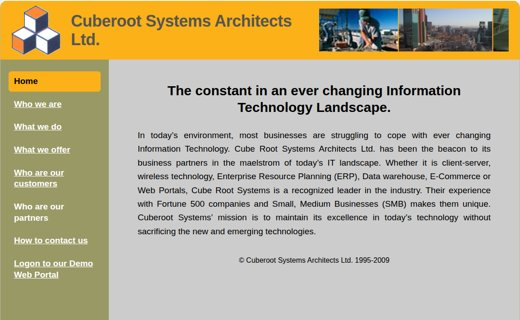
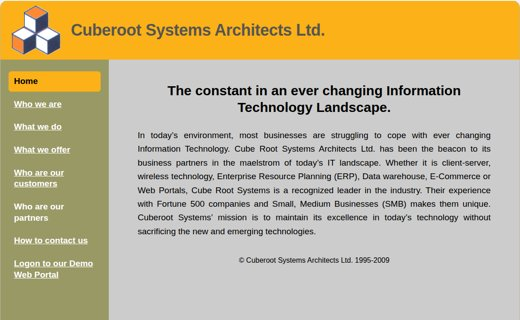
Add files via upload

Changed region(s): [[0.1231, 0.0, 0.9846, 0.1875]]

diff --git a/archive.html b/archive.html
@@ -38,7 +38,6 @@
 <div class="retro-head">
 <img class="cubes" src="assets/img/archive/three-cubes.png" alt="Original Cuberoot three-cube logo" width="110" height="110">
 <div class="title">Cuberoot Systems Architects Ltd.</div>
-<div class="marquee" aria-hidden="true"><div class="marquee-track"><img src="assets/img/archive/banner-1.jpg" alt="" width="207" height="95"><img src="assets/img/archive/banner-2.jpg" alt="" width="207" height="95"><img src="assets/img/archive/banner-3.jpg" alt="" width="207" height="95"><img src="assets/img/archive/banner-4.jpg" alt="" width="207" height="95"><img src="assets/img/archive/banner-5.jpg" alt="" width="207" height="95"><img src="assets/img/archive/banner-1.jpg" alt="" width="207" height="95"><img src="assets/img/archive/banner-2.jpg" alt="" width="207" height="95"><img src="assets/img/archive/banner-3.jpg" alt="" width="207" height="95"><img src="assets/img/archive/banner-4.jpg" alt="" width="207" height="95"><img src="assets/img/archive/banner-5.jpg" alt="" width="207" height="95"></div></div>
 </div>
 <div class="retro-body">
 <nav class="retro-menu" aria-label="Original site menu"><button type="button" data-page="home">Home</button><button type="button" data-page="who">Who we are</button><button type="button" data-page="do">What we do</button><button type="button" data-page="offer">What we offer</button><button type="button" data-page="customers">Who are our customers</button><span>Who are our partners</span><button type="button" data-page="contact">How to contact us</button><button type="button" data-page="portal">Logon to our Demo Web Portal</button></nav>
@@ -46,7 +45,7 @@
 </div>
 </div>
 <section class="panel notes" aria-label="About this archive">
-<div class="note"><div class="note-icon"><span data-icon="window"></span></div><div><b>Unchanged</b><span>Original wording, logo, colours, photos and menu.</span></div></div>
+<div class="note"><div class="note-icon"><span data-icon="window"></span></div><div><b>Unchanged</b><span>Original wording, logo, colours and menu.</span></div></div>
 <div class="note"><div class="note-icon"><span data-icon="eyeOff"></span></div><div><b>Removed for privacy</b><span>The phone number and mailing address on the contact page.</span></div></div>
 <div class="note"><div class="note-icon"><span data-icon="info"></span></div><div><b>Retired</b><span>The Demo Web Portal link now shows a short note instead of the old error page.</span></div></div>
 </section>

diff --git a/assets/css/site.css b/assets/css/site.css
@@ -150,11 +150,6 @@ p { margin: 0; }
 .retro-head { background: #FBB117; display: flex; align-items: center; gap: 22px; padding: 10px 24px; font-family: Geneva, Arial, Helvetica, sans-serif; min-height: 130px; }
 .retro-head .cubes { width: 110px; height: 110px; object-fit: contain; }
 .retro-head .title { flex: 1; font-weight: 700; font-size: 36px; color: #555; letter-spacing: -0.5px; line-height: 1.15; }
-.marquee { width: 420px; height: 95px; overflow: hidden; flex-shrink: 0; }
-.marquee-track { display: flex; gap: 2px; width: max-content; animation: slide 30s linear infinite; }
-.marquee-track img { width: 207px; height: 95px; object-fit: cover; display: block; }
-@keyframes slide { from { transform: translateX(0); } to { transform: translateX(-50%); } }
-@media (prefers-reduced-motion: reduce) { .marquee-track { animation: none; } }
 .retro-body { display: grid; grid-template-columns: 240px minmax(0, 1fr); min-height: 760px; }
 .retro-menu { background: #999966; padding: 26px 18px; display: flex; flex-direction: column; gap: 6px; font-family: Geneva, Arial, Helvetica, sans-serif; }
 .retro-menu button, .retro-menu span { text-align: left; background: none; border: 0; font: inherit; font-weight: 700; font-size: 19px; color: #fff; padding: 10px 12px; border-radius: 6px; line-height: 1.3; }
@@ -316,8 +311,7 @@ dialog::backdrop { background: rgba(42,50,66,.45); }
   .wrap { padding: 0 40px; }
   .timeline, .lists, .archive-card, .retro, .notes { margin-left: 40px; margin-right: 40px; }
   .hero h1 { font-size: 56px; }
-  .marquee { width: 207px; }
-  .readers-layout { grid-template-columns: minmax(0, 1fr); }
+    .readers-layout { grid-template-columns: minmax(0, 1fr); }
 }
 @media (max-width: 900px) {
   .wrap { padding: 0 20px; }
@@ -357,8 +351,7 @@ dialog::backdrop { background: rgba(42,50,66,.45); }
   .retro-head { flex-wrap: wrap; padding: 14px; min-height: 0; }
   .retro-head .cubes { width: 64px; height: 64px; }
   .retro-head .title { font-size: 24px; }
-  .marquee { width: 100%; }
-  .retro-body { grid-template-columns: minmax(0, 1fr); min-height: 0; }
+    .retro-body { grid-template-columns: minmax(0, 1fr); min-height: 0; }
   .retro-menu { flex-direction: row; flex-wrap: wrap; padding: 12px; }
   .retro-menu button, .retro-menu span { font-size: 17px; padding: 8px 10px; }
   .retro-page { padding: 28px 20px; }

diff --git a/then-and-now.html b/then-and-now.html
@@ -69,7 +69,7 @@
 <img src="assets/img/archive-preview.jpg" alt="The original Cuberoot website, with its orange banner and three-cube logo" width="260" height="160">
 <div class="stack">
 <h2>The original website, preserved</h2>
-<p class="muted">The old pages — three-cube logo, banner photos, sidebar and “Logon to our Demo Web Portal” — kept as they were.</p>
+<p class="muted">The old pages — three-cube logo, colours, sidebar and “Logon to our Demo Web Portal” — kept as they were.</p>
 <a href="archive.html"><b>Visit the archive →</b></a>
 </div>
 </section>

diff --git a/assets/js/config.js b/assets/js/config.js
@@ -1,6 +1,6 @@
 // Site settings — the only file you may need to edit by hand.
 export const SITE = {
-  version: '1.0.0',
+  version: '1.0.1',
   // The GitHub repository that hosts this site and the encrypted library.
   owner: 'willyros01',
   repo: 'Cuberoot',
